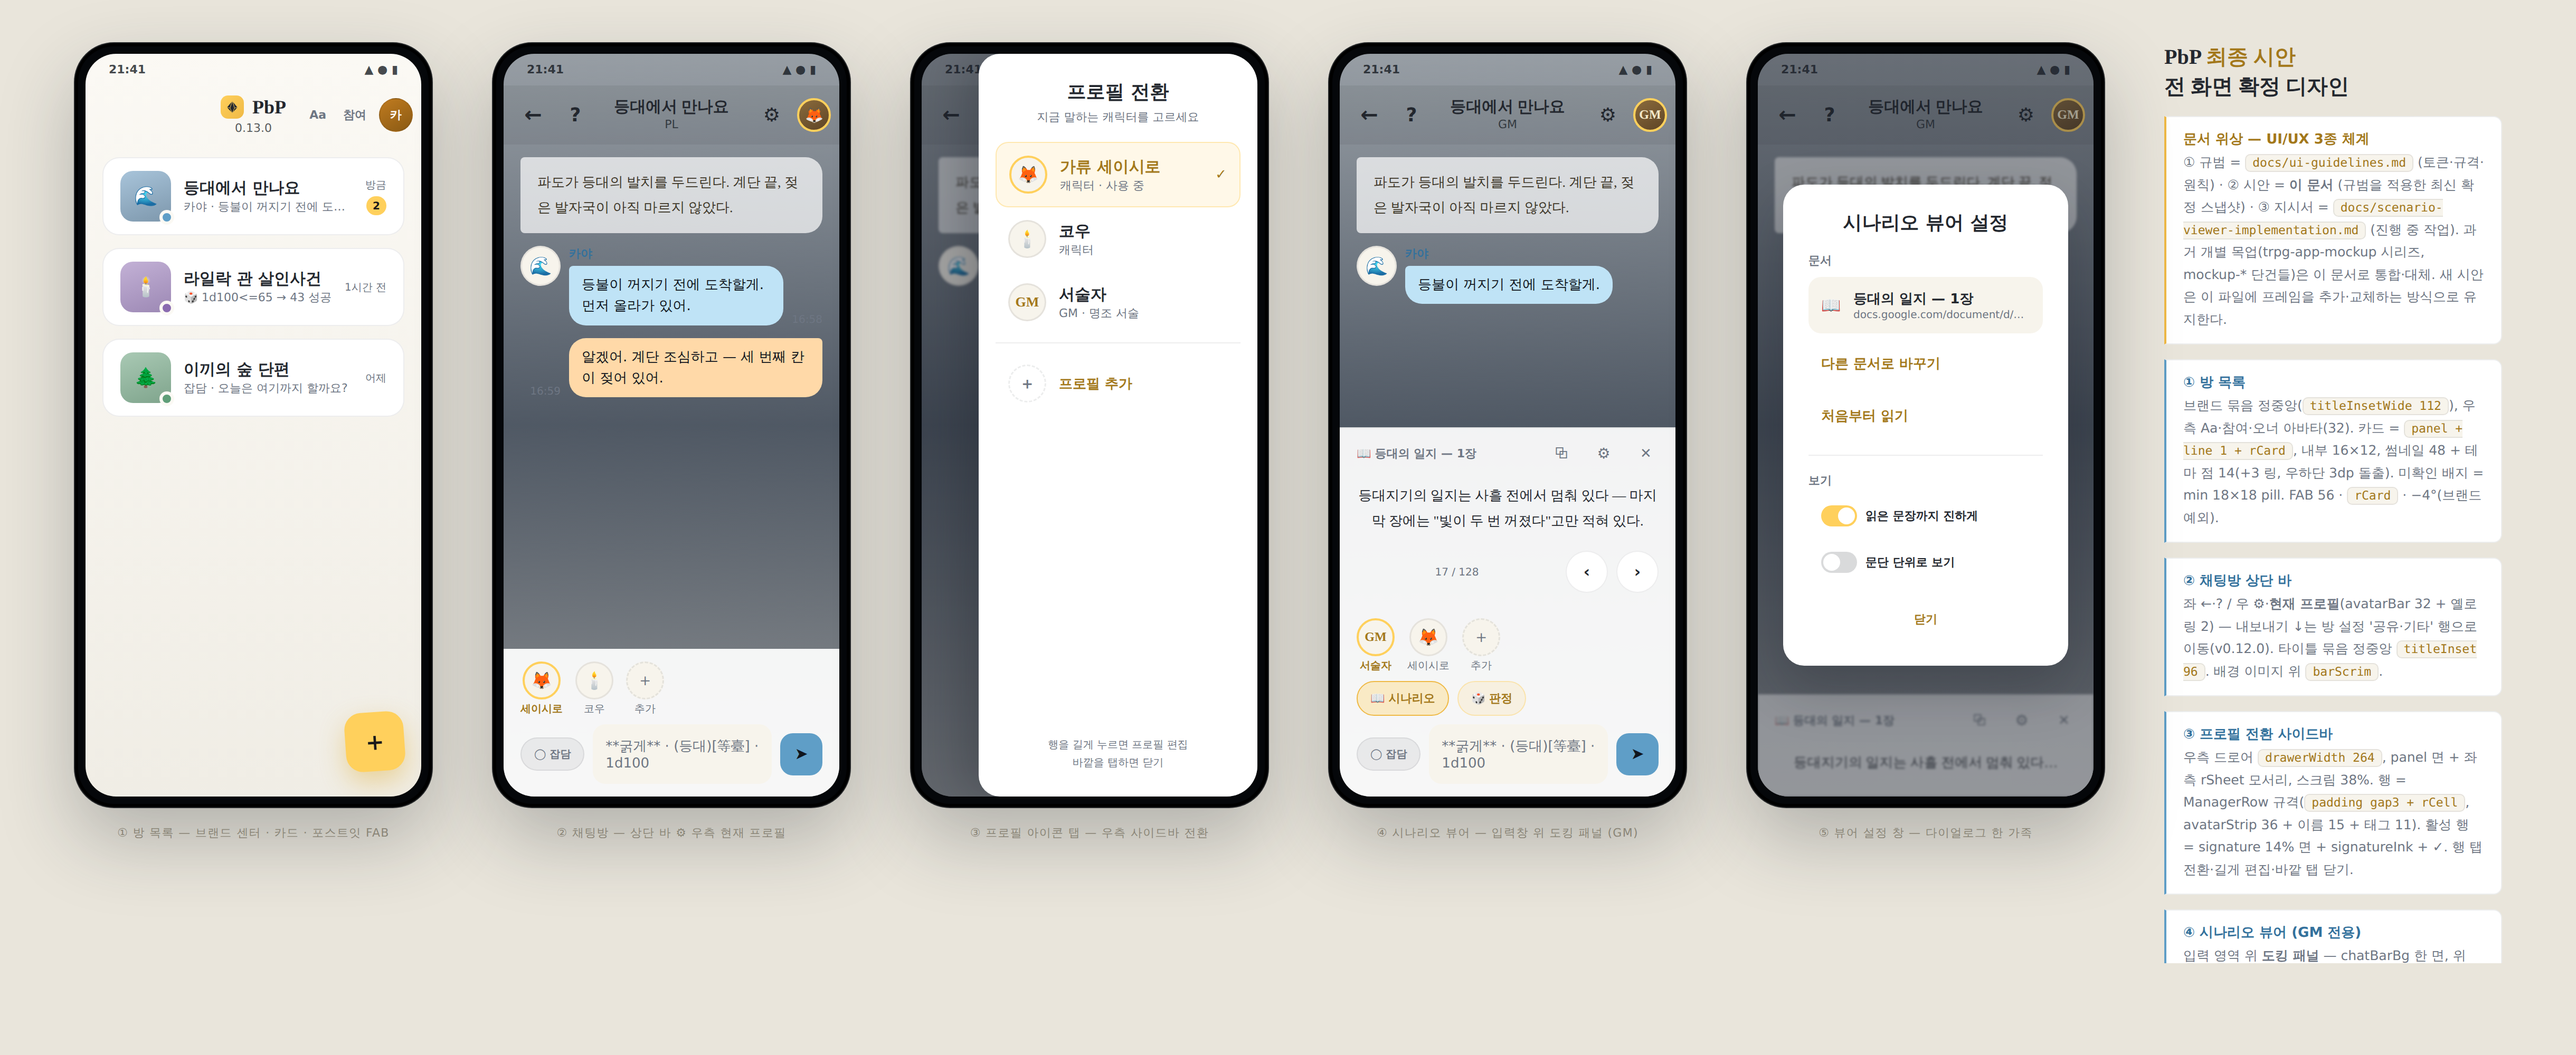
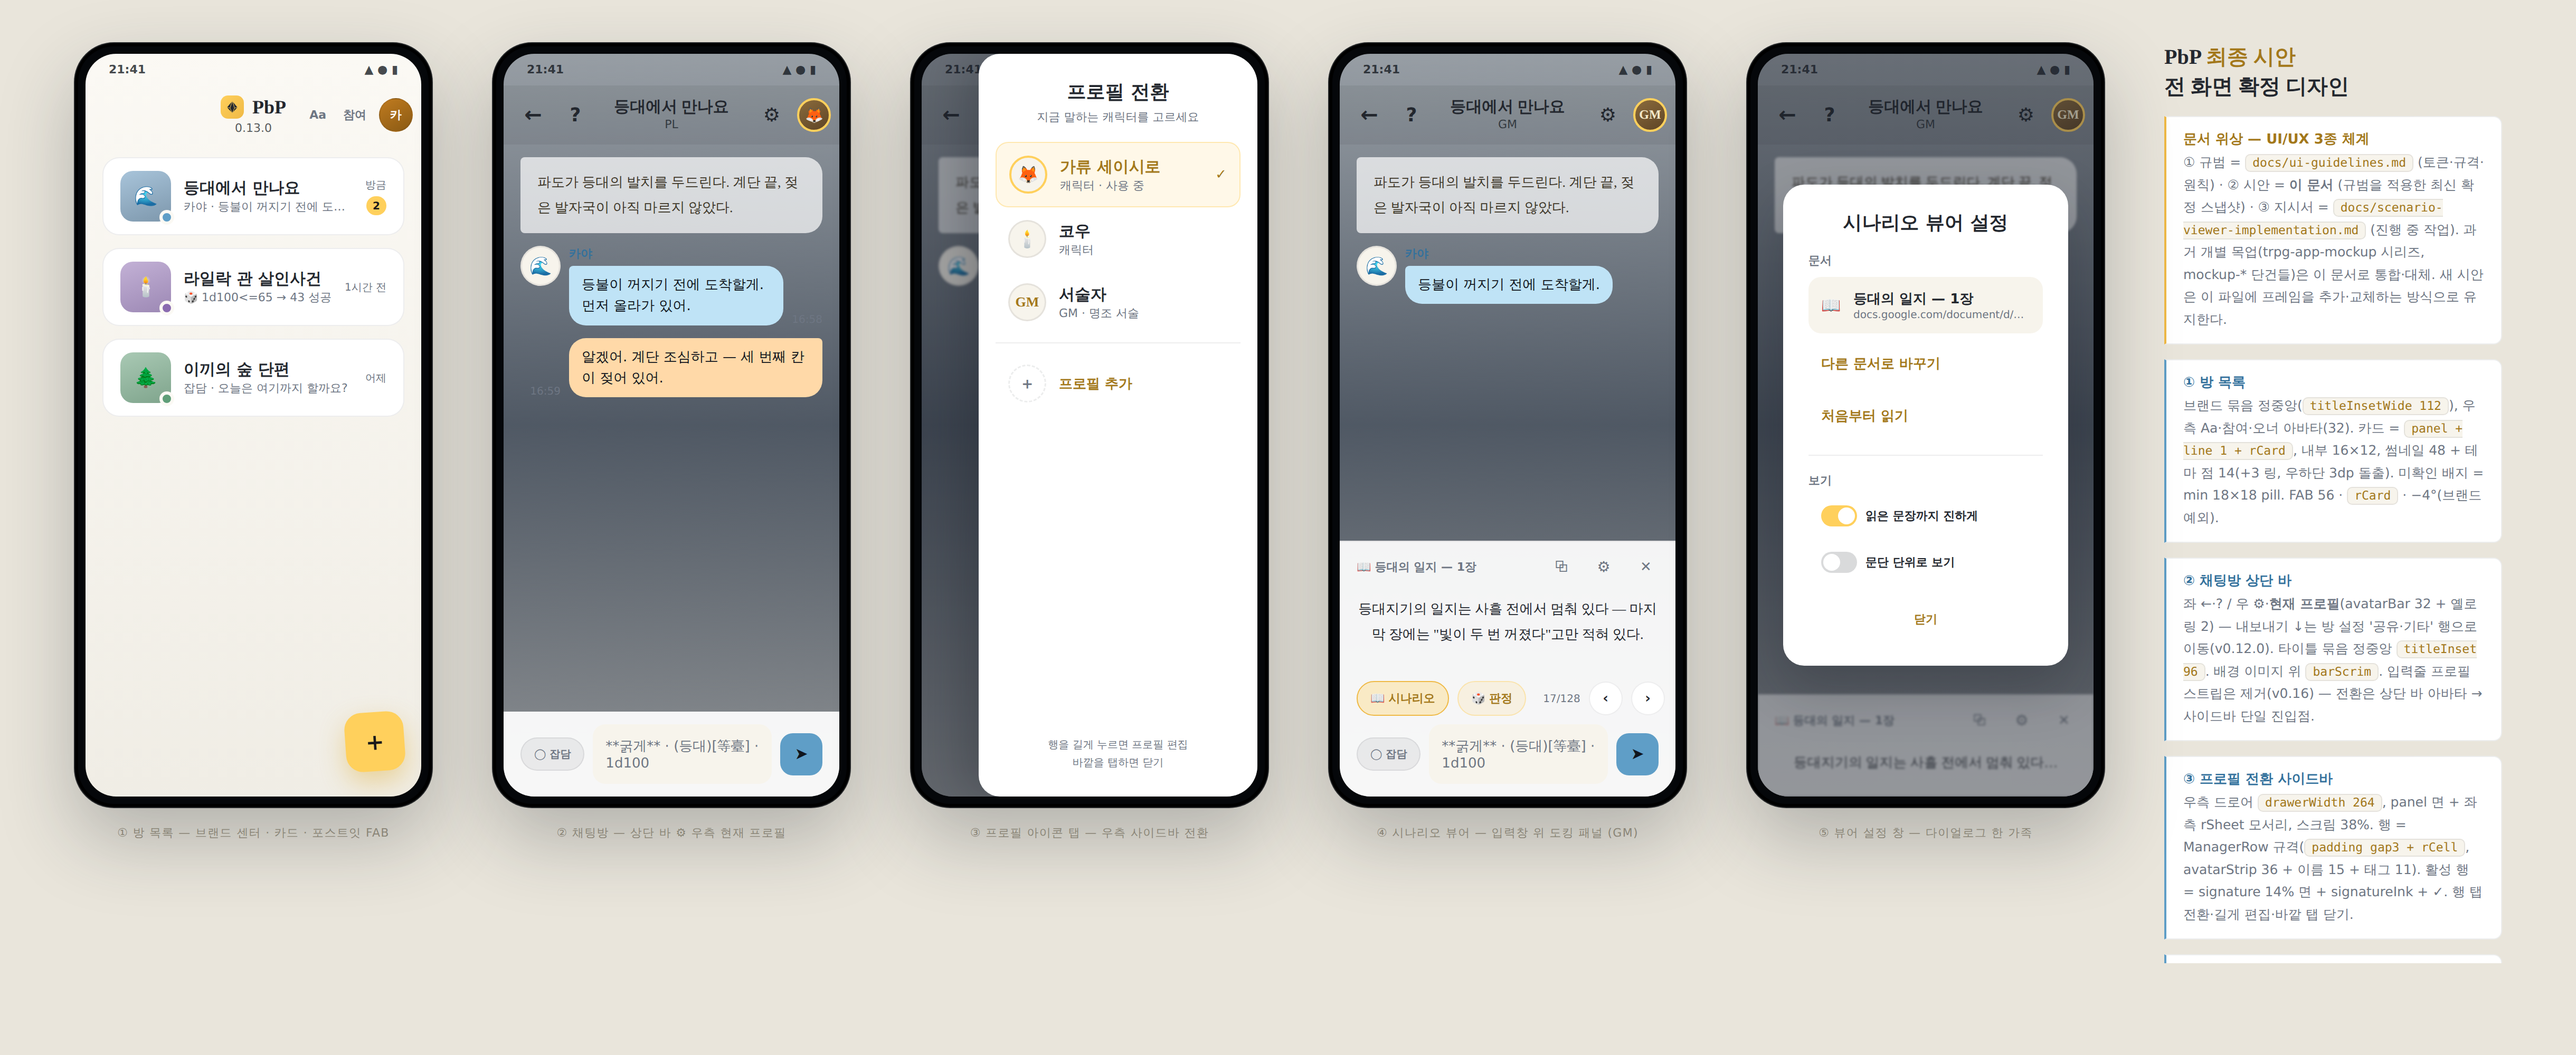
시안 — 시나리오 뷰어 컴팩트 개정 (진행·이동을 칩 행으로) + v0.16 현실 반영
- 패널을 헤더+문장 두 줄로 축소: 진행 표시(17/128)와 ‹ › 를 시나리오·판정
  칩 행 우측으로 이동 (시각 32 pill + 히트 40 — §6 패턴). 칩 행 높이(40)
  안에 들어가 패널이 하단 행 한 줄만큼 짧아짐. 패널 열림 시에만 노출
- 시안을 v0.16 구현 현실로 동기화: 입력줄 프로필 스트립 제거(전환은
  상단 바 아바타 → 사이드바 단일 진입점) — 프레임 ②·④ 및 주석 갱신

Claude-Session: https://claude.ai/code/session_01Lyf9YMsjapJLGsQ8FsfG9Q

Changed region(s): [[0.841, 0.62, 0.9656, 0.93], [0.4984, 0.403, 0.6541, 0.651], [0.1869, 0.589, 0.3426, 0.682]]

diff --git a/docs/mockups/final-design.html b/docs/mockups/final-design.html
@@ -99,6 +99,7 @@ body{
 .f-foot{display:flex;align-items:center;gap:var(--sp-2)}
 .f-count{flex:1;text-align:center;font-size:10px;color:var(--ink-dim)}
 .f-nav{width:var(--touch);height:var(--touch);border-radius:var(--r-pill);border:1px solid var(--line);background:var(--panel);display:flex;align-items:center;justify-content:center;font-size:15px;font-weight:700;color:var(--ink);flex-shrink:0}
+.f-nav.sm{width:32px;height:32px;font-size:13px} /* 시각 32 + 히트 40 (§6 패턴) */
 
 /* ── 입력 영역 ── */
 .inputzone{flex-shrink:0;background:var(--chatbar);padding:var(--sp-3) var(--sp-4);display:flex;flex-direction:column;gap:var(--sp-2)}
@@ -109,7 +110,7 @@ body{
 .strip .on{color:var(--signature-ink);font-weight:700}
 .strip .gm .a{font-family:'Gowun Batang',serif;font-size:12px;font-weight:700;color:var(--signature-ink)}
 .chiprow{display:flex;gap:var(--sp-2)}
-.chip{font-size:11px;font-weight:700;color:var(--signature-ink);background:rgba(255,208,92,.14);border:1px solid rgba(255,208,92,.4);border-radius:var(--r-pill);padding:var(--sp-2) var(--sp-3)}
+.chip{font-size:11px;font-weight:700;color:var(--signature-ink);background:rgba(255,208,92,.14);border:1px solid rgba(255,208,92,.4);border-radius:var(--r-pill);padding:var(--sp-2) var(--sp-3);white-space:nowrap}
 .chip.hot{background:rgba(255,208,92,.32);border-color:var(--postit-deep)}
 .inputrow{display:flex;gap:var(--sp-2);align-items:center}
 .ooc{display:flex;align-items:center;gap:var(--sp-2);border:1px solid var(--line);border-radius:var(--r-pill);padding:var(--sp-2) var(--sp-3);font-size:10px;font-weight:700;color:var(--ink-dim);background:rgba(20,25,32,.06)}
@@ -248,11 +249,6 @@ body{
         </div>
       </div>
       <div class="inputzone">
-        <div class="strip">
-          <div class="p on"><div class="a">🦊</div>세이시로</div>
-          <div class="p"><div class="a">🕯</div>코우</div>
-          <div class="p"><div class="a" style="border-style:dashed">＋</div>추가</div>
-        </div>
         <div class="inputrow">
           <div class="ooc">◯ 잡담</div>
           <div class="field">**굵게** · (등대)[等臺] · 1d100</div>
@@ -357,21 +353,15 @@ body{
           <div class="f-x">✕</div>
         </div>
         <div class="f-sentence">등대지기의 일지는 사흘 전에서 멈춰 있다 — 마지막 장에는 "빛이 두 번 꺼졌다"고만 적혀 있다.</div>
-        <div class="f-foot">
-          <div class="f-count">17 / 128</div>
-          <div class="f-nav">‹</div>
-          <div class="f-nav">›</div>
-        </div>
       </div>
       <div class="inputzone">
-        <div class="strip">
-          <div class="p on gm"><div class="a">GM</div>서술자</div>
-          <div class="p"><div class="a">🦊</div>세이시로</div>
-          <div class="p"><div class="a" style="border-style:dashed">＋</div>추가</div>
-        </div>
-        <div class="chiprow">
+        <div class="chiprow" style="align-items:center">
           <div class="chip hot">📖 시나리오</div>
           <div class="chip">🎲 판정</div>
+          <div style="flex:1"></div>
+          <div class="f-count" style="flex:none;white-space:nowrap">17/128</div>
+          <div class="f-nav sm">‹</div>
+          <div class="f-nav sm">›</div>
         </div>
         <div class="inputrow">
           <div class="ooc">◯ 잡담</div>
@@ -459,7 +449,9 @@ body{
       <h4>② 채팅방 상단 바</h4>
       <p>좌 ←·? / 우 ⚙·<b>현재 프로필</b>(avatarBar 32 + 옐로 링 2) —
       내보내기 ↓는 방 설정 '공유·기타' 행으로 이동(v0.12.0). 타이틀 묶음
-      정중앙 <code>titleInset 96</code>. 배경 이미지 위 <code>barScrim</code>.</p>
+      정중앙 <code>titleInset 96</code>. 배경 이미지 위 <code>barScrim</code>.
+      입력줄 프로필 스트립은 제거(v0.16) — 전환은 상단 바 아바타 →
+      사이드바 단일 진입점.</p>
     </div>
 
     <div class="note">
@@ -473,10 +465,12 @@ body{
     <div class="note">
       <h4>④ 시나리오 뷰어 (GM 전용)</h4>
       <p>입력 영역 위 <b>도킹 패널</b> — chatBarBg 한 면, 위 line 1dp.
-      칩 행: <code>📖 시나리오</code>(첫 번째, 열림 시 진하게) ·
-      <code>🎲 판정</code>. 헤더 = 📖 문서 제목 | ⧉(현재 문장을 입력창에
-      삽입) | ⚙(설정) | ✕. 문장 = 명조 13sp 행간 1.85 센터. 하단 =
-      진행 표시 + ‹ › 40 pill. 상세 사양은 지시서 V3~V5.</p>
+      패널은 <b>헤더 + 문장 두 줄뿐</b>: 헤더 = 📖 문서 제목 | ⧉(현재
+      문장을 입력창에 삽입) | ⚙(설정) | ✕ · 문장 = 명조 13sp 행간 1.85 센터.
+      <b>진행 표시(17/128)와 ‹ ›는 칩 행 우측으로 이동</b>(컴팩트 개정) —
+      칩 행: <code>📖 시나리오</code>(열림 시 진하게) · <code>🎲 판정</code> ·
+      우측 정렬 진행+‹ ›(시각 32 pill, 히트 40 — §6 패턴). 칩 행 높이(40)
+      안이라 패널이 하단 행 한 줄만큼 짧아진다. 진행·‹ ›는 패널이 열려 있을 때만 노출.</p>
     </div>
 
     <div class="note">
